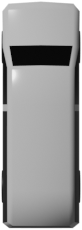
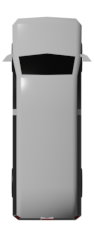
backup and brake lights

diff --git a/car.js b/car.js
@@ -1,9 +1,8 @@
 class Car {
-    constructor(x, y, width, height, imageFilename, controls) {
+    constructor(x, y, scale, imageFilename, controls) {
         this.x = x;
         this.y = y;
-        this.width = width;
-        this.height = height;
+        this.scale = scale;
         this.controls = controls;
 
         this.image = new Image();
@@ -19,6 +18,14 @@ class Car {
     }
 
     update() {
+        this.#updateInput();
+        this.#updatePhysics();
+        this.#updateImageState();
+        console.hud(this);
+        console.hud(this.controls);
+    }
+
+    #updateInput() {
         // input
         if (this.controls.gas) {
             this.speed += this.acceleration;
@@ -26,7 +33,9 @@ class Car {
         if (this.controls.brake) {
             this.speed -= this.acceleration;
         }
+    }
 
+    #updatePhysics() {
         // physics bounds checking
         if (this.speed > this.maxSpeed) {
             this.speed = this.maxSpeed;
@@ -70,17 +79,31 @@ class Car {
         // position update
         this.x += Math.sin(this.angle) * this.speed;
         this.y -= Math.cos(this.angle) * this.speed; // y starts at top so subtract
-        console.hud(this);
-        console.hud(this.controls);
+    }
+
+    #updateImageState() {
+        var src = "van.png";
+        if (this.gear === "D") {
+            if (this.controls.brake) {
+                src = "van_D_brake.png"
+            }
+        } else if (this.gear === "R") {
+            src = "van_R_brake.png"
+        }
+        if (this.image.src !== src) {
+            this.image.src = src;
+        }
     }
 
     draw(context) {
         context.save();
 
+        const width = this.image.width * this.scale;
+        const height = this.image.height * this.scale;
+
         context.translate(this.x, this.y);
         context.rotate(this.angle);
-        context.drawImage(this.image, -this.width * 0.5, -this.height*.6, this.width, this.height);
-
+        context.drawImage(this.image, -width * 0.5, -height * .6, width, height);
 
 
         // context.beginPath();

diff --git a/main.js b/main.js
@@ -7,7 +7,7 @@ const hud = new Hud();
 // pollute console with hud for global access
 console.hud = hud.update;
 window.road = new Road(canvas.width * 0.5, 500 * 0.9, 5);
-window.car = new Car(road.laneCenter(-1), canvas.height * 0.8, 50, 120, "van.png", humanPlayer);
+window.car = new Car(road.laneCenter(-1), canvas.height * 0.8, 0.6, "van.png", humanPlayer);
 animate();
 
 function updateCanvasSize() {

diff --git a/index.html b/index.html
@@ -2,7 +2,9 @@
 <head>
     <title>Robert's Vanilla.js Project</title>
     <link rel="stylesheet" href="style.css">
-    <link rel="prefetch" href="van.png" as="image">
+    <link rel="preload" href="van.png" as="image">
+    <link rel="preload" href="van_D_brake.png" as="image">
+    <link rel="preload" href="van_R_brake.png" as="image">
 </head>
 <body>
 <canvas id="canvas"></canvas>
